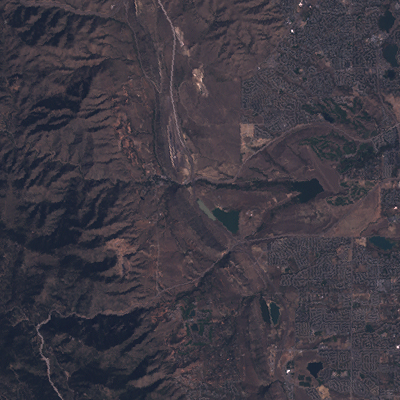
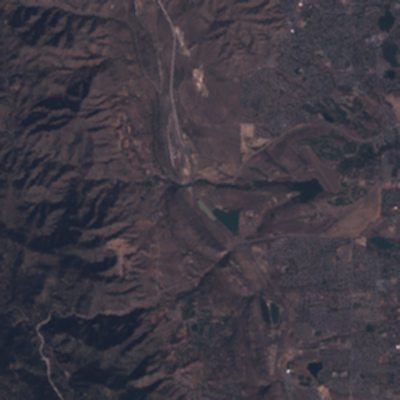
2st

diff --git a/main.py b/main.py
@@ -13,7 +13,7 @@ import convert
 import histogram_matching as hm
 import replaceWithSsim as rws
 
-ms_img = cv2.imread("image/2_MS(o).png")
+ms_img = cv2.imread("image/2_MS.png")
 pan_img = cv2.imread("image/2_PAN.png", 0)
 
 
@@ -23,7 +23,7 @@ def getIfromHSI(HSI_img):
     for i in range(m):
         for j in range(n):
             img[i][j] =HSI_img[i][j][2]*255
-
+    #print("I: " + str(img))
     return img
 
 def editI2HSI(HSI_img, I):
@@ -32,20 +32,24 @@ def editI2HSI(HSI_img, I):
 
     for i in range(m):
         for j in range(n):
+            #print("hsi_I: ")
             hsi_img[i][j][2] = I[i][j]/255.0
 
     return hsi_img
 
-ms_resample_img = resample.upSample(ms_img)
-cv2.imwrite("resample/2.png", ms_resample_img)
-hsi_img = convert.RGB2HSI(ms_resample_img)
+
+hsi_img = convert.RGB2HSI(ms_img)
 I = getIfromHSI(hsi_img)
 pnew = hm.histogram_match(pan_img, I)
-Inew = rws.replaceWithSsim(I, pnew)
+Inew = rws.replaceWithSsim(I, pnew, win_size=7)
 hsi_new = editI2HSI(hsi_img, Inew)
 
+#result_img 
 rgb_result_img = convert.HSI2RGB(hsi_new)
-
 cv2.imwrite("result/result_2.png", rgb_result_img)
+
+# combine MS_img and result_img 
+combine_img = np.concatenate((ms_img, rgb_result_img), axis=1)
+cv2.imwrite("combine/combine_2.png", combine_img)
 
 

diff --git a/replaceWithSsim.py b/replaceWithSsim.py
@@ -25,11 +25,14 @@ def replaceWithSsim(I, P, win_size=None, threshold=None):
 
     n, m = I.shape
     I_new = I.copy()
-
+    count=0
     for i in range(n):
         for j in range(m):
-            if (ssim_image[i][j] >= threshold):
-                I_new[i][j] = P[i][j]
+            if (ssim_image[i][j] > threshold):
+                count += 1
+                #print("ssim:" + str(ssim_image[i][j]) + ", thres: " + str(threshold)+" " + str(count))
+                #print("I: "+ str(I[i][j]) + ", P: " + str(P[i][j]) )
+                I_new.itemset((i, j), P.item(i, j))
 
     # cv2.imshow("I_new", I_new)
     # cv2.waitKey(0)

diff --git a/test.py b/test.py
@@ -14,8 +14,8 @@ import histogram_matching as hm
 import replaceWithSsim as rws
 
 
-img = cv2.imread("image/2_MS.png")
+img = cv2.imread("image/21_MS.png")
 
-down_img = resample.downSample(img)
+down_img = cv2.blur(img,(3,3))
 
-cv2.imwrite("image/2_MS(o).png", down_img)
+cv2.imwrite("image/21_MS(b).png", down_img)
